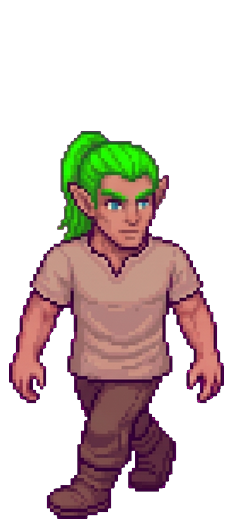
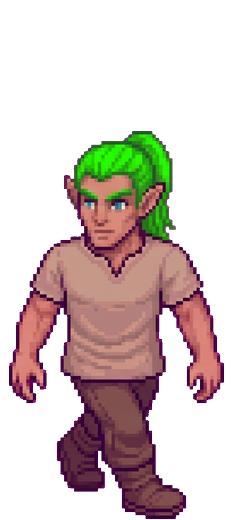
Elfo: diagonal de descida espelhada e parado de frente/costas mais encorpado
A folha parada do elfo veio com o corpo mais fino que a de andar; com
parado_do_andar, frente e costas usam o passo mais fechado do andar.

Changed region(s): [[0.0302, 0.2462, 0.9655, 1.0], [0.3922, 0.5538, 0.4224, 0.5846]]

diff --git a/tools/arte/importar_folhas.py b/tools/arte/importar_folhas.py
@@ -148,6 +148,9 @@ def importar(race, cfg, ref):
                 if sum(olha_para_direita(q) for q in fila) > 0:
                     quadros[(nome, 'left')] = [q.transpose(Image.FLIP_LEFT_RIGHT) for q in fila]
     if not quadros: return None
+    if lados.get('parado_do_andar'):                     # folha parada desenhada com outro corpo (elfo magrinho): usa o andar
+        for d in ('down', 'up'):                     # de lado o passo sempre tem as pernas abertas: fica o perfil parado
+            if ('walk', d) in quadros: quadros[('idle', d)] = [passo_fechado(quadros[('walk', d)])]
     for d in ('down_left', 'up_left'):                  # sem folha parada diagonal: o passo mais fechado do andar
         if ('walk', d) in quadros and ('idle', d) not in quadros:
             quadros[('idle', d)] = [passo_fechado(quadros[('walk', d)])]
